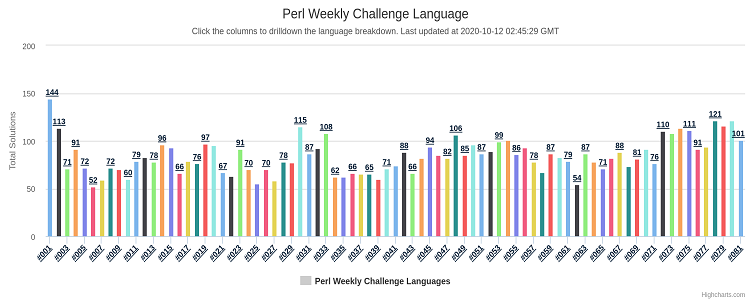
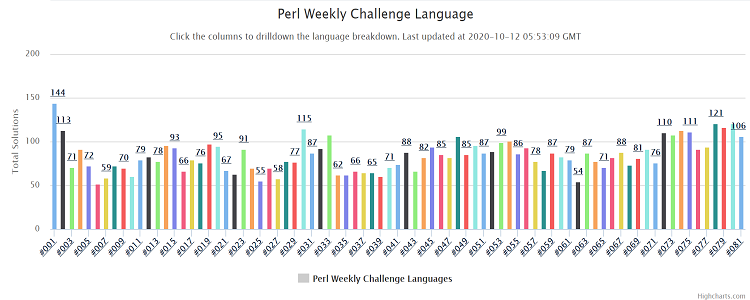
- Added solutions by Jaldhar H. Vyas.

diff --git a/docs/blog/recap-challenge-081/index.html b/docs/blog/recap-challenge-081/index.html
@@ -225,12 +225,13 @@
 <p>Following members shared solutions to both tasks in <code>Perl</code> and <code>Raku</code> as well as blogged about it.</p>
 <h4 id="1-roger-bell_west">1) Roger Bell_West</h4>
 <h4 id="2-colin-crain">2) Colin Crain</h4>
-<h4 id="3-mohammad-s-anwar">3) Mohammad S Anwar</h4>
-<h4 id="4-myoungjin-jeon">4) Myoungjin Jeon</h4>
+<h4 id="3-jaldhar-h-vyas">3) Jaldhar H. Vyas</h4>
+<h4 id="4-mohammad-s-anwar">4) Mohammad S Anwar</h4>
+<h4 id="5-myoungjin-jeon">5) Myoungjin Jeon</h4>
 <br>
 <h2 id="CONTRIBUTIONSTATS">CONTRIBUTION STATS</h2>
 <hr>
-<p>The total contributions in the week is <code>101</code>.Well done <strong>Team PWC</strong>. I would also like to thanks <code>Raku</code> contributors for catching up.</p>
+<p>The total contributions in the week is <code>106</code>.Well done <strong>Team PWC</strong>. I would also like to thanks <code>Raku</code> contributors for catching up.</p>
 <p><img src="/images/blog/languages-breakdown-81.png" alt="Language Breakdown"></p>
 <br>
 <h2 id="GUESTS">GUESTS</h2>
@@ -462,6 +463,14 @@
 [<a href="https://github.com/manwar/perlweeklychallenge-club/blob/master/challenge-081/colin-crain/raku/ch-1.raku"><strong>RAKU #1</strong></a>]
 [<a href="https://github.com/manwar/perlweeklychallenge-club/blob/master/challenge-081/colin-crain/raku/ch-2.raku"><strong>RAKU #2</strong></a>]
 [<a href="https://colincrain.wordpress.com/2020/10/10/finding-common-basis-with-a-bag-of-sharks/"><strong>BLOG #1</strong></a>]</p>
+<hr>
+<h3 id="jaldhar-h-vyas">Jaldhar H. Vyas</h3>
+<p><img src="/images/team/jaldhar_vyas.jpg" alt="Jaldhar H. Vyas"></p>
+<p>[<a href="https://github.com/manwar/perlweeklychallenge-club/blob/master/challenge-081/jaldhar-h-vyas/perl/ch-1.pl"><strong>PERL #1</strong></a>]
+[<a href="https://github.com/manwar/perlweeklychallenge-club/blob/master/challenge-081/jaldhar-h-vyas/perl/ch-2.pl"><strong>PERL #2</strong></a>]
+[<a href="https://github.com/manwar/perlweeklychallenge-club/blob/master/challenge-081/jaldhar-h-vyas/raku/ch-1.p6"><strong>RAKU #1</strong></a>]
+[<a href="https://github.com/manwar/perlweeklychallenge-club/blob/master/challenge-081/jaldhar-h-vyas/raku/ch-2.p6"><strong>RAKU #2</strong></a>]
+[<a href="https://www.braincells.com/perl/2020/10/perl_weekly_challenge_week_81.html"><strong>BLOG #1</strong></a>]</p>
 <hr>
 <h3 id="julio-de-castro">Julio de Castro</h3>
 <p><img src="/images/team/user.jpg" alt="Julio de Castro"></p>

diff --git a/content/blog/recap-challenge-081.md b/content/blog/recap-challenge-081.md
@@ -43,15 +43,16 @@ Following members shared solutions to both tasks in `Perl` and `Raku` as well as
 
 #### 1) Roger Bell_West
 #### 2) Colin Crain
-#### 3) Mohammad S Anwar
-#### 4) Myoungjin Jeon
+#### 3) Jaldhar H. Vyas
+#### 4) Mohammad S Anwar
+#### 5) Myoungjin Jeon
 
 <br>
 
 ## CONTRIBUTION STATS {#CONTRIBUTIONSTATS}
 ***
 
-The total contributions in the week is `101`.Well done **Team PWC**. I would also like to thanks `Raku` contributors for catching up.
+The total contributions in the week is `106`.Well done **Team PWC**. I would also like to thanks `Raku` contributors for catching up.
 
 ![Language Breakdown](/images/blog/languages-breakdown-81.png)
 
@@ -400,6 +401,17 @@ Please checkout the technical class of **Andrew**'s **Raku** Knowledge. You can 
 [[**RAKU #1**](https://github.com/manwar/perlweeklychallenge-club/blob/master/challenge-081/colin-crain/raku/ch-1.raku)]
 [[**RAKU #2**](https://github.com/manwar/perlweeklychallenge-club/blob/master/challenge-081/colin-crain/raku/ch-2.raku)]
 [[**BLOG #1**](https://colincrain.wordpress.com/2020/10/10/finding-common-basis-with-a-bag-of-sharks/)]
+
+***
+
+### Jaldhar H. Vyas
+![Jaldhar H. Vyas](/images/team/jaldhar_vyas.jpg)
+
+[[**PERL #1**](https://github.com/manwar/perlweeklychallenge-club/blob/master/challenge-081/jaldhar-h-vyas/perl/ch-1.pl)]
+[[**PERL #2**](https://github.com/manwar/perlweeklychallenge-club/blob/master/challenge-081/jaldhar-h-vyas/perl/ch-2.pl)]
+[[**RAKU #1**](https://github.com/manwar/perlweeklychallenge-club/blob/master/challenge-081/jaldhar-h-vyas/raku/ch-1.p6)]
+[[**RAKU #2**](https://github.com/manwar/perlweeklychallenge-club/blob/master/challenge-081/jaldhar-h-vyas/raku/ch-2.p6)]
+[[**BLOG #1**](https://www.braincells.com/perl/2020/10/perl_weekly_challenge_week_81.html)]
 
 ***
 
